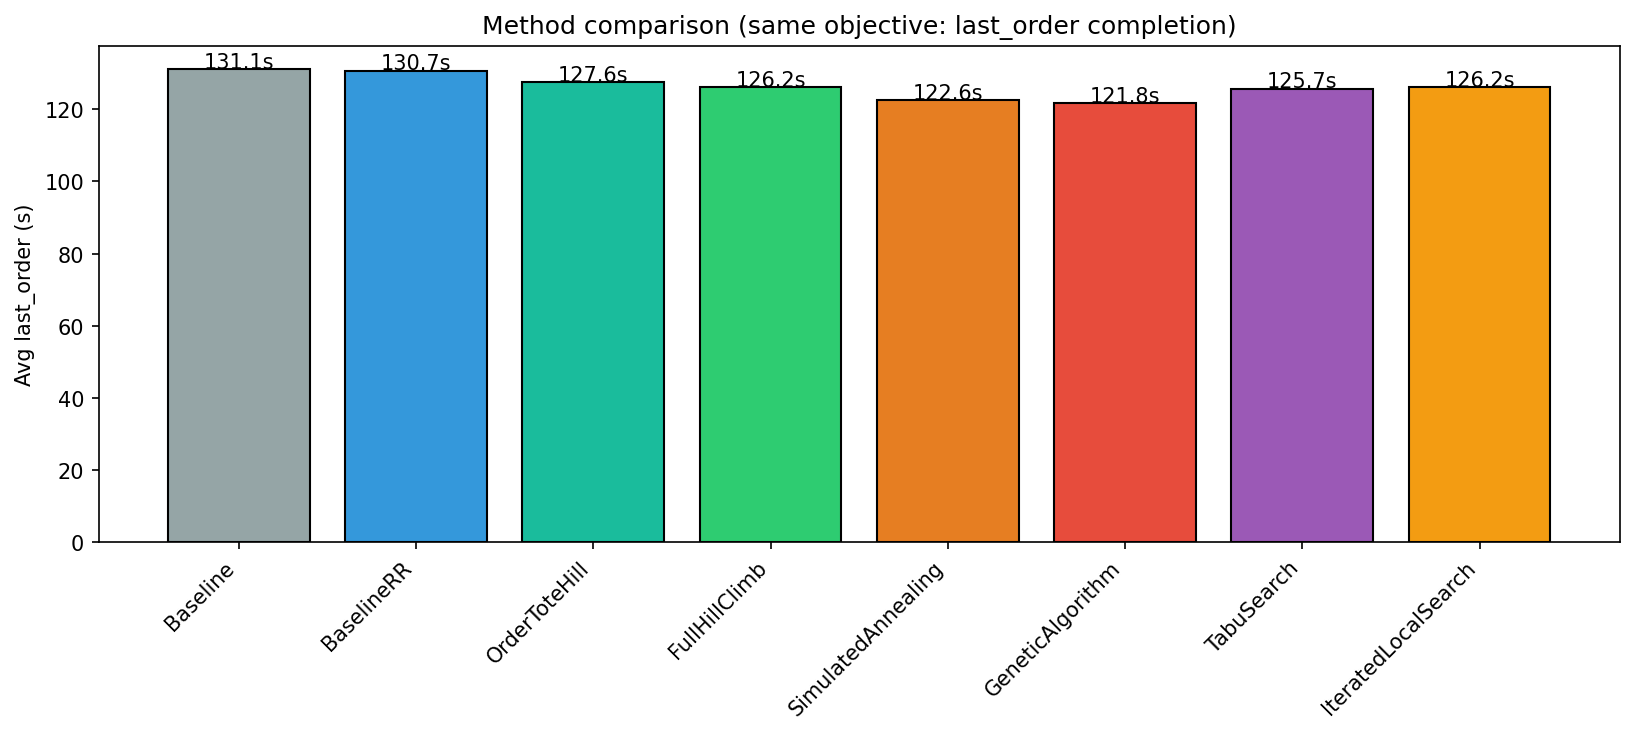
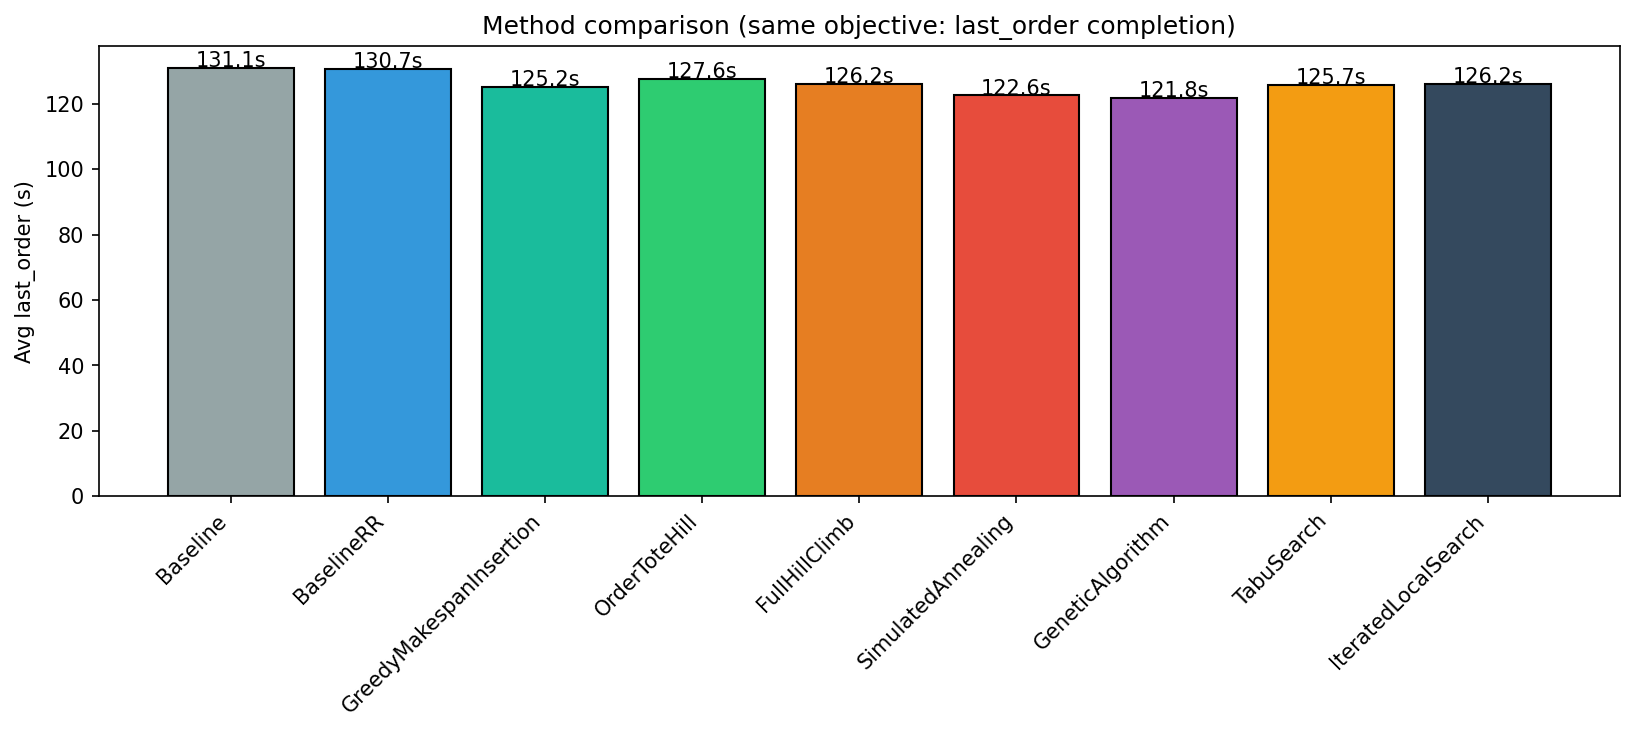
added greedy makespan insertion algorithm and results

diff --git a/scheduler/compare_methods.py b/scheduler/compare_methods.py
@@ -40,6 +40,10 @@ from scheduler.joint_solution import (
     orders_on_conveyor,
 )
 
+from scheduler.search_orders import (
+    greedy_makespan_insertion,
+)
+
 try:
     import matplotlib
     matplotlib.use("Agg")
@@ -51,6 +55,7 @@ except ImportError:
 METHODS = [
     "Baseline",
     "BaselineRR",
+    "GreedyMakespanInsertion",
     "OrderToteHill",
     "FullHillClimb",
     "SimulatedAnnealing",
@@ -196,6 +201,18 @@ def get_solution_for_method(
         sol = solution_from_order_sequence(orders, tote_contents, list(range(n)), travel_aware=False)
         val, _, _ = evaluate_solution(sol, orders, tote_contents, objective="last_order")
         return sol, val
+    if method == "GreedyMakespanInsertion":
+        # Order-only greedy construction
+        seq, ms = greedy_makespan_insertion(
+            orders,
+            travel_aware=True,
+            tote_contents=tote_contents,
+            order_to_totes=None,
+        )
+        sol = solution_from_order_sequence(
+            orders, tote_contents, seq, travel_aware=True
+        )
+        return sol, ms
     if method == "OrderToteHill":
         start = initial_solution(orders, tote_contents, travel_aware=True)
         sol, val, _ = hill_climb_order_and_tote(
@@ -283,6 +300,12 @@ def run_one_instance(
     )
     results["BaselineRR"], _, _ = evaluate_solution(baseline_rr_sol, orders, tote_contents, objective="last_order")
 
+    # MCT: greedy makespan insertion (order-only)
+    seq, mct_ms = greedy_makespan_insertion(
+        orders, travel_aware=True, tote_contents=tote_contents, order_to_totes=None,
+    )
+    results["GreedyMakespanInsertion"] = mct_ms
+
     # OrderToteHill: hill climb over order sequence and tote loading order only (no conveyor, no item order)
     order_tote_start = initial_solution(orders, tote_contents, travel_aware=True)
     _, results["OrderToteHill"], _ = hill_climb_order_and_tote(
@@ -355,7 +378,7 @@ def run_one_instance(
 
 def main() -> None:
     parser = argparse.ArgumentParser(
-        description="Compare Baseline, BaselineRR, OrderToteHill, FullHillClimb, SimulatedAnnealing, GeneticAlgorithm, TabuSearch, IteratedLocalSearch under last_order objective; write all outputs to results folder.",
+        description="Compare Baseline, BaselineRR, GreedyMakespanInsertion, OrderToteHill, FullHillClimb, SimulatedAnnealing, GeneticAlgorithm, TabuSearch, IteratedLocalSearch under last_order objective; write all outputs to results folder.",
     )
     parser.add_argument(
         "base_dir",
@@ -448,7 +471,7 @@ def main() -> None:
         print(f"  {col}: avg={avg:.2f}s  best={best:.2f}s")
     baseline_avg = sum(r["Baseline"] for r in rows) / N
     print(f"  BaselineRR vs Baseline: {(1 - sum(r['BaselineRR'] for r in rows) / N / baseline_avg) * 100:.1f}% (avg; positive = RR better)")
-    for name in ["OrderToteHill", "FullHillClimb", "SimulatedAnnealing", "GeneticAlgorithm", "TabuSearch", "IteratedLocalSearch"]:
+    for name in ["GreedyMakespanInsertion", "OrderToteHill", "FullHillClimb", "SimulatedAnnealing", "GeneticAlgorithm", "TabuSearch", "IteratedLocalSearch"]:
         avg = sum(r[name] for r in rows) / N
         print(f"  {name} vs Baseline: {(1 - avg / baseline_avg) * 100:.1f}% improvement (avg)")
 
@@ -476,7 +499,7 @@ def main() -> None:
             f.write(f"  {col}: avg={avg:.2f}s\n")
         f.write("\n")
         f.write(f"BaselineRR vs Baseline: {(1 - sum(r['BaselineRR'] for r in rows) / N / baseline_avg) * 100:.1f}% (avg; positive = RR better)\n")
-        for name in ["OrderToteHill", "FullHillClimb", "SimulatedAnnealing", "GeneticAlgorithm", "TabuSearch", "IteratedLocalSearch"]:
+        for name in ["GreedyMakespanInsertion", "OrderToteHill", "FullHillClimb", "SimulatedAnnealing", "GeneticAlgorithm", "TabuSearch", "IteratedLocalSearch"]:
             avg = sum(r[name] for r in rows) / N
             f.write(f"{name} vs Baseline: {(1 - avg / baseline_avg) * 100:.1f}% improvement (avg)\n")
         f.write("\nPer-instance results: see comparison.csv\n")

diff --git a/scheduler/search_orders.py b/scheduler/search_orders.py
@@ -153,6 +153,42 @@ def simulated_annealing(
         T *= cooling
     return best_seq, best_ms, evals
 
+def greedy_makespan_insertion(
+    orders,
+    travel_aware=True,
+    tote_contents=None,
+    order_to_totes=None,
+    item_order_per_tote=None,
+):
+    """
+    Greedy Makespan Insertion (MCT):
+    Construct schedule by repeatedly choosing the order that minimizes makespan.
+    """
+    remaining = list(range(len(orders)))
+    sequence = []
+
+    while remaining:
+        best_order = None
+        best_ms = float("inf")
+
+        for o in remaining:
+            trial_seq = sequence + [o]
+            ms = makespan_for_sequence(
+                orders,
+                trial_seq,
+                travel_aware,
+                tote_contents=tote_contents,
+                order_to_totes=order_to_totes,
+                item_order_per_tote=item_order_per_tote,
+            )
+            if ms < best_ms:
+                best_ms = ms
+                best_order = o
+
+        sequence.append(best_order)
+        remaining.remove(best_order)
+
+    return sequence, best_ms
 
 def main() -> None:
     parser = argparse.ArgumentParser(
@@ -161,9 +197,9 @@ def main() -> None:
     parser.add_argument("generated_dir", type=Path, help="Path to folder with order_itemtypes.csv, order_quantities.csv")
     parser.add_argument(
         "--method",
-        choices=["hill", "sa"],
+        choices=["hill", "sa", "mct"],
         default="hill",
-        help="hill = first-improvement hill climbing; sa = simulated annealing",
+        help="hill = first-improvement hill climbing; sa = simulated annealing; mct = greedy makespan insertion",
     )
     parser.add_argument("--max-evals", type=int, default=500, help="Max sim evaluations for SA (default 500)")
     parser.add_argument("--seed", type=int, default=None, help="Random seed for SA")
@@ -205,10 +241,15 @@ def main() -> None:
     kw = {"tote_contents": tote_contents if use_tote else None, "order_to_totes": order_to_totes if use_tote else None}
     if args.method == "hill":
         best_seq, best_ms, evals = hill_climb(orders, lpt_seq, travel_aware=True, verbose=verbose, **kw)
-    else:
+    elif args.method == "sa":
         best_seq, best_ms, evals = simulated_annealing(
             orders, lpt_seq, travel_aware=True, max_evals=args.max_evals, verbose=verbose, **kw
         )
+    elif args.method == "mct":
+        best_seq, best_ms = greedy_makespan_insertion(
+            orders, travel_aware=True, **kw,
+        )
+        evals = "constructive"
 
     if verbose:
         print(f"Best makespan = {best_ms:.2f}s (evals = {evals})")
